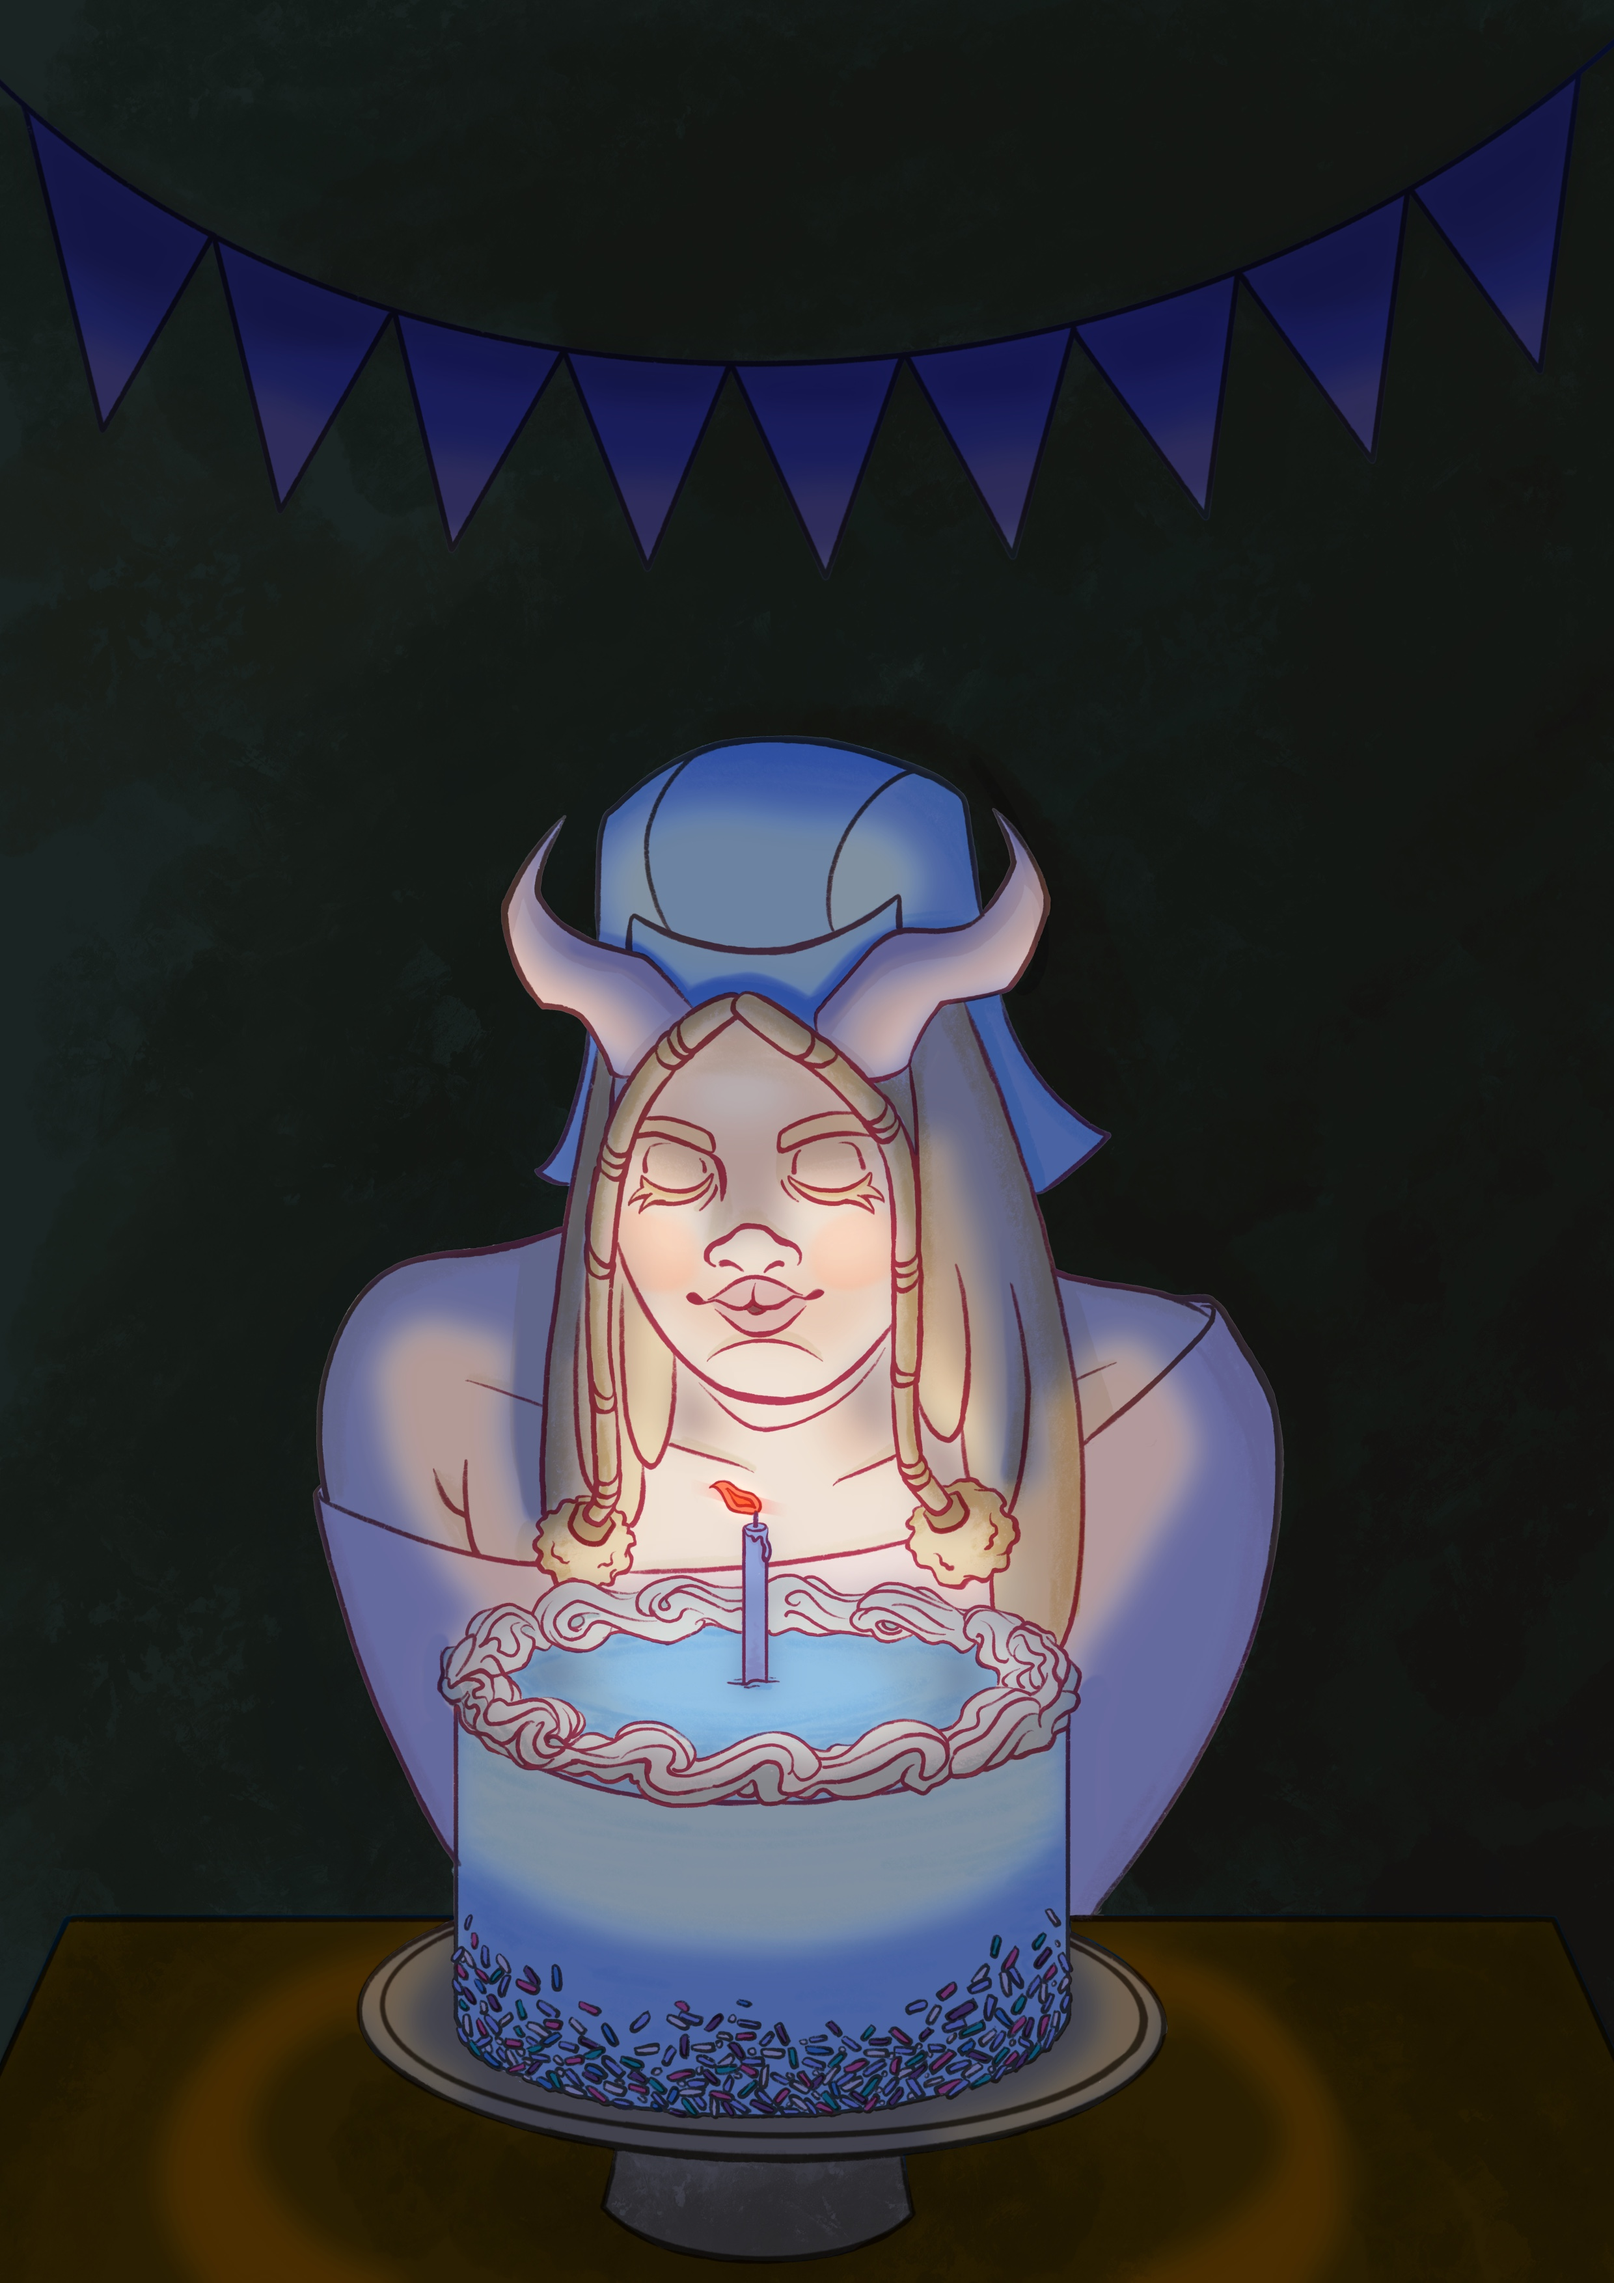
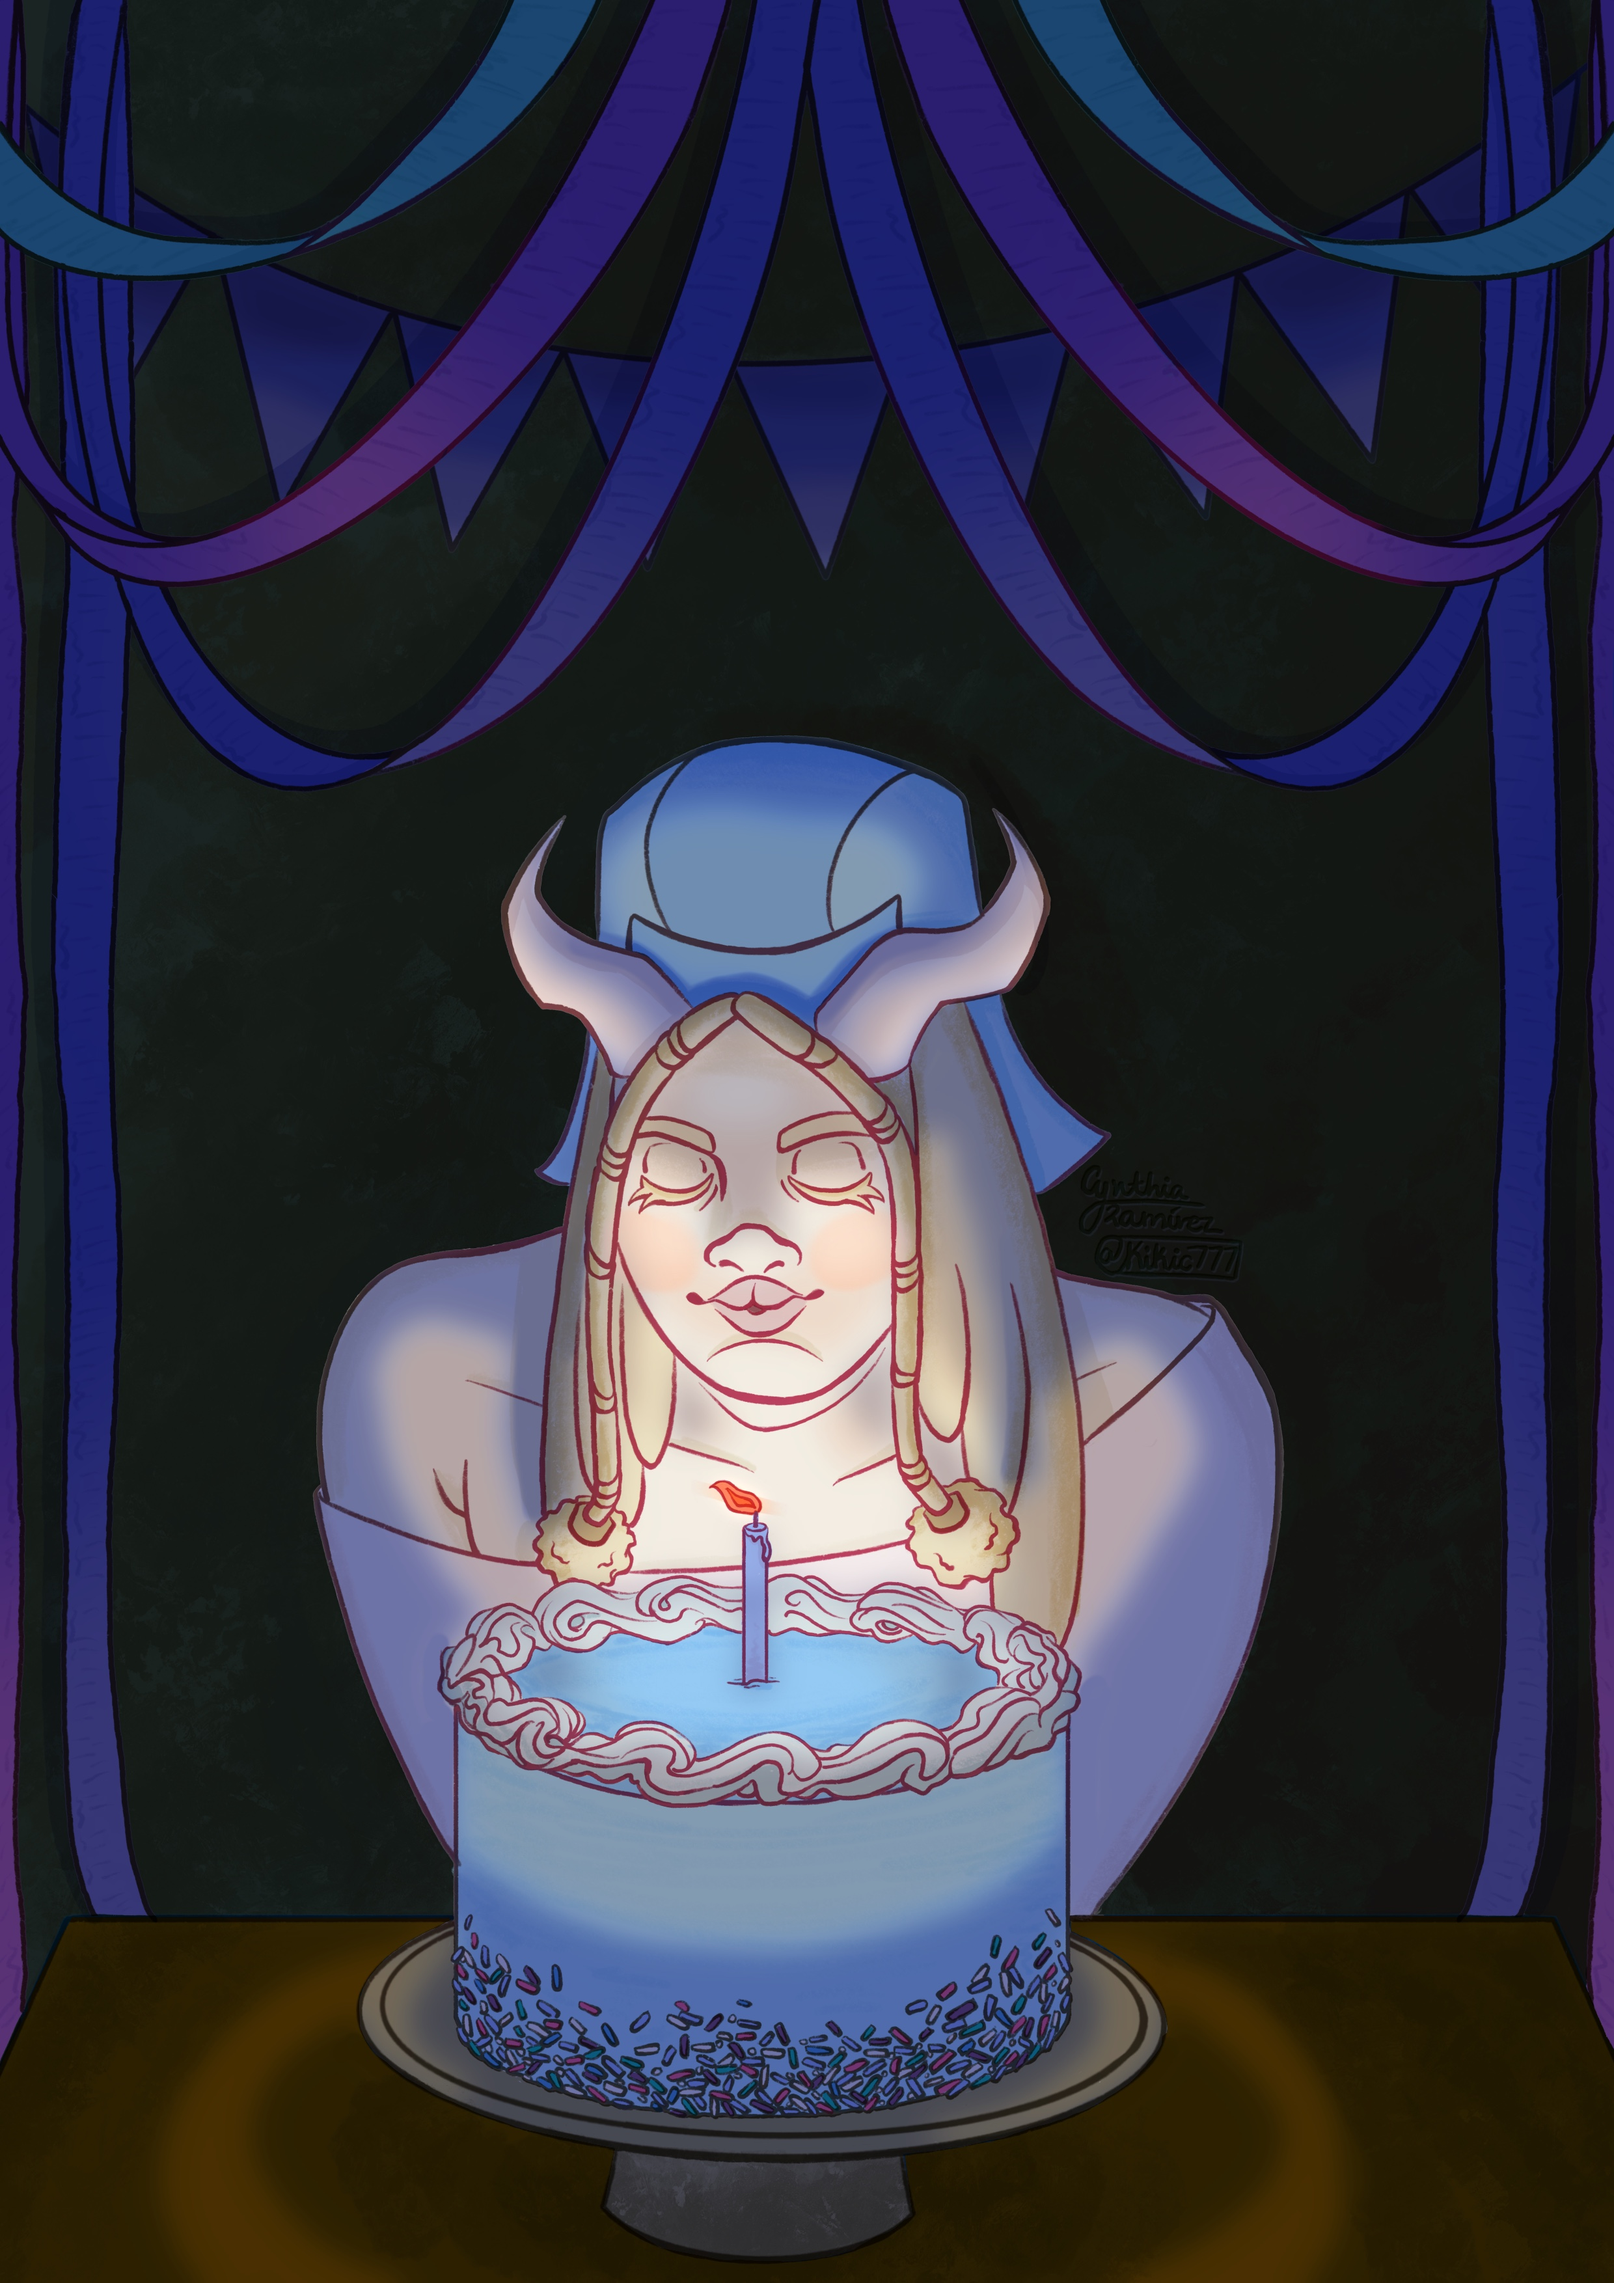
Replaced image

Changed region(s): [[0.0, 0.0, 1.0, 0.9011]]

diff --git a/index.html b/index.html
@@ -99,7 +99,7 @@
     </div>
     <div id="illustration" data-tab-content>
       <h1>Illustration</h1>
-      <img src="img/ADLBDayPromoArt.jpg" alt="Portrait of Lucien from A Divine Lesson" width="40%">
+      <img src="img/ADLBDayPromoArt.jpeg" alt="Portrait of Lucien from A Divine Lesson" width="40%">
 	  <p><i>A Divine Lesson Lucien Birthday Post</i></p>
 	  <p>2480 x 3508 pixels</p>
       <p>Digital Drawing</p>
